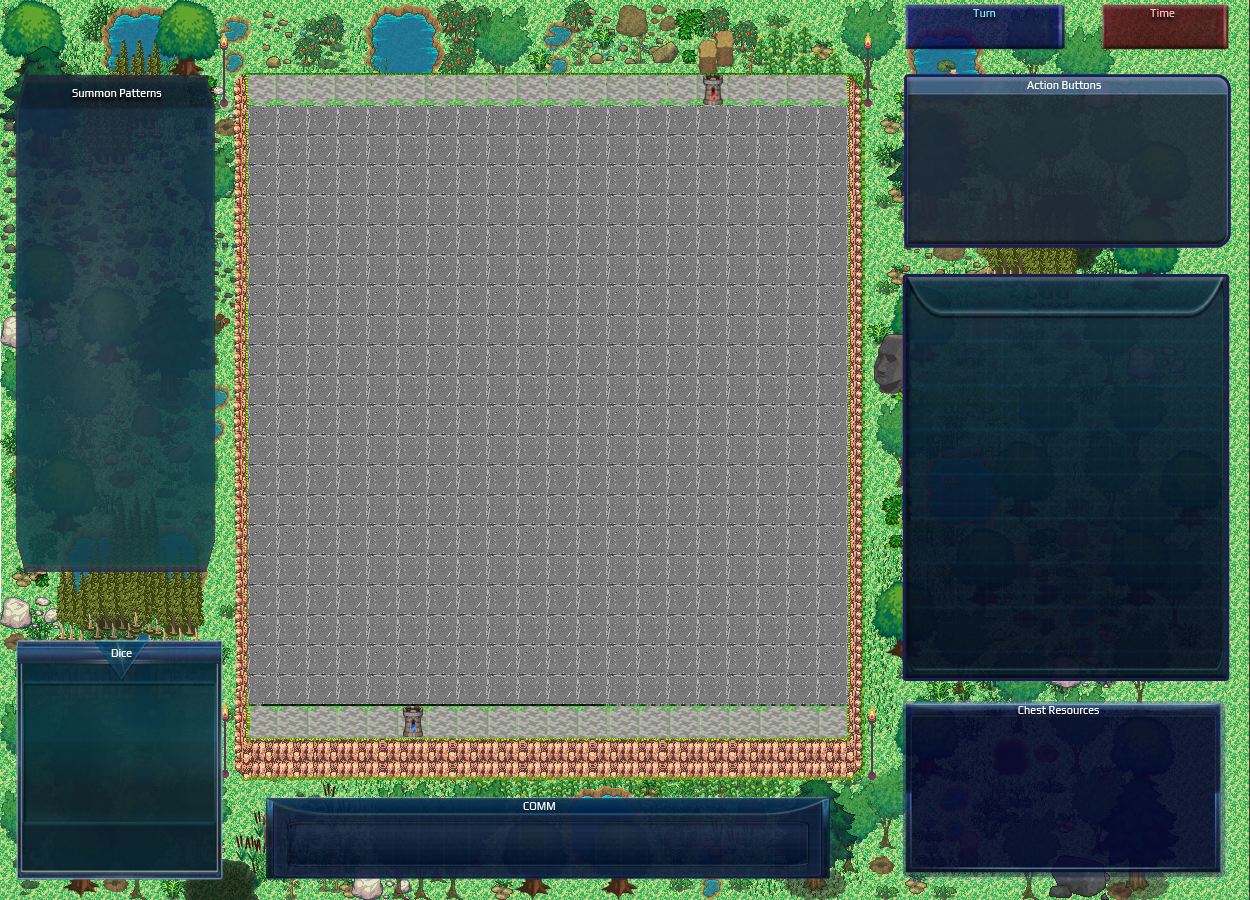
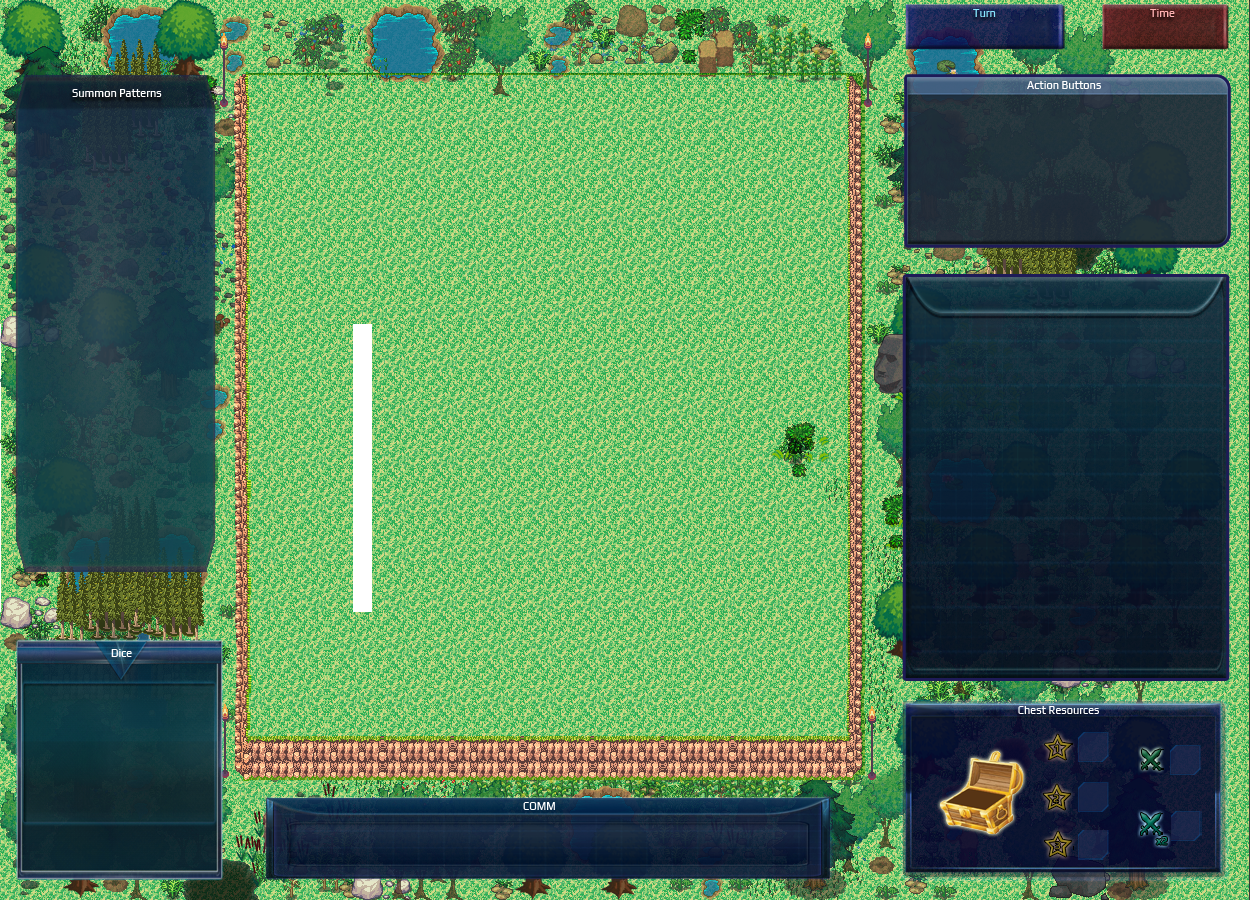
Commit 16 de abril. avances gráficas.

diff --git a/core/src/com/mygdx/game/ui/Screens/GameScreen.java b/core/src/com/mygdx/game/ui/Screens/GameScreen.java
@@ -1,12 +1,26 @@
 package com.mygdx.game.ui.Screens;
 
+import com.badlogic.gdx.Gdx;
+import com.badlogic.gdx.InputMultiplexer;
+import com.badlogic.gdx.InputProcessor;
 import com.badlogic.gdx.Screen;
 import com.badlogic.gdx.graphics.Camera;
+import com.badlogic.gdx.graphics.Color;
 import com.badlogic.gdx.graphics.OrthographicCamera;
 import com.badlogic.gdx.graphics.Texture;
+import com.badlogic.gdx.graphics.g2d.BitmapFont;
 import com.badlogic.gdx.graphics.g2d.SpriteBatch;
 import com.badlogic.gdx.graphics.g2d.TextureAtlas;
 import com.badlogic.gdx.graphics.g2d.TextureRegion;
+import com.badlogic.gdx.math.Vector3;
+import com.badlogic.gdx.scenes.scene2d.Actor;
+import com.badlogic.gdx.scenes.scene2d.InputEvent;
+import com.badlogic.gdx.scenes.scene2d.Stage;
+import com.badlogic.gdx.scenes.scene2d.ui.ImageButton;
+import com.badlogic.gdx.scenes.scene2d.ui.Label;
+import com.badlogic.gdx.scenes.scene2d.utils.ChangeListener;
+import com.badlogic.gdx.scenes.scene2d.utils.ClickListener;
+import com.badlogic.gdx.scenes.scene2d.utils.TextureRegionDrawable;
 import com.badlogic.gdx.utils.viewport.StretchViewport;
 import com.badlogic.gdx.utils.viewport.Viewport;
 import com.mygdx.game.bl.celdas.iPrototipo.Celda;
@@ -19,14 +33,15 @@ import com.mygdx.game.ui.MyGdxGame;
 import java.util.ArrayList;
 
 
-public class GameScreen implements Screen {
+public class GameScreen implements Screen, InputProcessor {
 
     //Conexión con el orquestador
     private MyGdxGame parent;
 
     //screen
-    private Camera camera;
-    private Viewport viewport;
+    private final Camera camera;
+    private final Viewport viewport;
+    private Vector3 temp;
 
     //Gestores
     private static ControllerCelda gestorCelda;
@@ -34,17 +49,19 @@ public class GameScreen implements Screen {
     private static ControllerDado gestorDado;
 
     //graphics
-    private SpriteBatch batch;
+    private final SpriteBatch batch;
+    private final Stage stage;
+    private InputMultiplexer multiplexer;
 
     //world parameters
-    private final int WORLD_WIDTH = 1600;
+    private final int WORLD_WIDTH = 1250;
     private final int WORLD_HEIGHT = 900;
 
     //background
     Texture background;
 
     //game objects
-    private ArrayList<Celda> tablero;
+    private final ArrayList<Celda> tablero;
     private Cofre cofre = new Cofre();
 
     //players
@@ -63,20 +80,36 @@ public class GameScreen implements Screen {
     public TextureRegion summonDie;
     public TextureRegion movementDie;
 
+    //buttons
+
+    ImageButton btnRoll;
+    ImageButton btnEndTurn;
+    ImageButton btnSummon;
+    ImageButton btnAtk;
+    ImageButton btnSpAtk;
+    ImageButton btnAddChest;
+
+    //Labels
+
+    Label lTimer;
 
     //Texture atlas
     public final TextureAtlas diceAtlas = new TextureAtlas("dice/dice.atlas");
-    public static final TextureAtlas cellAtlas = new TextureAtlas("cells/cells.atlas");
+    public final TextureAtlas cellAtlas = new TextureAtlas("cells/cells.atlas");
+    public final TextureAtlas buttonAtlas = new TextureAtlas("buttons/buttons.atlas");
 
     //variables
 
     private String turn;
-    private int gameTime;
+    private int gameTime = 60;
     private static int time = 0;
+    public int currentCell = 1;
+    public String currentPlayer = "blue";
 
 
     public GameScreen(MyGdxGame myGame) {
         parent = myGame;
+        temp = new Vector3();
         camera = new OrthographicCamera();
         viewport = new StretchViewport(WORLD_WIDTH, WORLD_HEIGHT, camera);
 
@@ -105,7 +138,91 @@ public class GameScreen implements Screen {
         movementDie = diceAtlas.findRegion("1");
 
 
+        //Inicializar labels
+
+        /*Label.LabelStyle labelStyle = new Label.LabelStyle();
+        BitmapFont myFont = new BitmapFont("R");
+        labelStyle.fontColor = Color.WHITE;
+        labelStyle.font = myFont;*/
+
+
+        /* __________________________________________________________________________________________*/
+        /* --------------                         Cronómetro                                 --------*/
+        /* ------------------------------------------------------------------------------------------*/
+        /*lTimer = new Label("60",);
+        lTimer.setSize(100, 30);
+        lTimer.setPosition(1104, 852);*/
+
+
         //Inicializar botones
+
+        /* __________________________________________________________________________________________*/
+        /* --------                         Botón de Roll Dados                              --------*/
+        /* ------------------------------------------------------------------------------------------*/
+        TextureRegionDrawable rollUpImage =  new TextureRegionDrawable(buttonAtlas.findRegion("rollButtonUp"));
+        TextureRegionDrawable rollDownImage =  new TextureRegionDrawable(buttonAtlas.findRegion("rollButtonDown"));
+        ImageButton.ImageButtonStyle styleRoll = new ImageButton.ImageButtonStyle();
+        styleRoll.up = rollUpImage;
+        styleRoll.down = rollDownImage;
+        btnRoll = new ImageButton(styleRoll);
+        btnRoll.setPosition(75,40);
+        btnRoll.addListener(new ClickListener() {
+            public void clicked(InputEvent event, float x, float y){
+                System.out.println("Accion ejecutada: Tirar Dados");
+            }
+        });
+
+        /* __________________________________________________________________________________________*/
+        /* -----------                         Botón de End Turn                             --------*/
+        /* ------------------------------------------------------------------------------------------*/
+        TextureRegionDrawable endTurnUp =  new TextureRegionDrawable(buttonAtlas.findRegion("endTurnUp"));
+        TextureRegionDrawable endTurnDown =  new TextureRegionDrawable(buttonAtlas.findRegion("endTurnDown"));
+        ImageButton.ImageButtonStyle styleEnd = new ImageButton.ImageButtonStyle();
+        styleEnd.up = endTurnUp;
+        styleEnd.down = endTurnDown;
+        btnEndTurn = new ImageButton(styleEnd);
+        btnEndTurn.setPosition(1083,690);
+        btnEndTurn.addListener(new ClickListener() {
+            public void clicked(InputEvent event, float x, float y){
+                System.out.println("Accion ejecutada: Final del turno."); // editar con el método correcto
+            }
+        });
+
+        /* __________________________________________________________________________________________*/
+        /* -----------                         Botón de Summon                               --------*/
+        /* ------------------------------------------------------------------------------------------*/
+        TextureRegionDrawable summonUp =  new TextureRegionDrawable(buttonAtlas.findRegion("summonUp"));
+        TextureRegionDrawable summonDown =  new TextureRegionDrawable(buttonAtlas.findRegion("summonDown"));
+        ImageButton.ImageButtonStyle styleSummon = new ImageButton.ImageButtonStyle();
+        styleSummon.up = summonUp;
+        styleSummon.down = summonDown;
+        btnSummon = new ImageButton(styleSummon);
+        btnSummon.setPosition(939,690);
+        btnSummon.addListener(new ClickListener() {
+            public void clicked(InputEvent event, float x, float y){
+                System.out.println("Accion ejecutada: Realizar convocacion."); // editar con el método correcto
+            }
+        });
+
+
+
+        /* __________________________________________________________________________________________*/
+        /* -----------                        Botón de Add Chest                             --------*/
+        /* ------------------------------------------------------------------------------------------*/
+        TextureRegionDrawable addUp =  new TextureRegionDrawable(buttonAtlas.findRegion("addUp"));
+        TextureRegionDrawable addDown =  new TextureRegionDrawable(buttonAtlas.findRegion("addDown"));
+        ImageButton.ImageButtonStyle styleAdd = new ImageButton.ImageButtonStyle();
+        styleAdd.up = addUp;
+        styleAdd.down = addDown;
+        btnAddChest = new ImageButton(styleAdd);
+        btnAddChest.setPosition(929,122);
+        btnAddChest.addListener(new ClickListener() {
+            public void clicked(InputEvent event, float x, float y){
+                System.out.println("Accion ejecutada: Se agregaron dados de turno a cofre."); // editar con el método correcto
+            }
+        });
+
+
 
 
         //Establecer objetos de juego
@@ -113,20 +230,27 @@ public class GameScreen implements Screen {
 
 
 
+
+        //setear la pantalla al input processor para responder a clicks
+
+        multiplexer = new InputMultiplexer();
         batch = new SpriteBatch();
+        stage = new Stage(viewport, batch);
 
-    }
+        multiplexer.addProcessor(this);
+        multiplexer.addProcessor(stage);
 
-    public void changeTurn(){
-        if(turn.equals("jugador")){
-            turn="cpu";
-        }else{
-            turn="jugador";
-        }
-    }
+        Gdx.input.setInputProcessor(multiplexer);
 
-    public void updateClock(int value){
-        gameTime=value; //actualiza variable local para dibujar el tiempo restante del turno
+        //add elements to stage
+
+        stage.addActor(btnRoll);
+        stage.addActor(btnEndTurn);
+        stage.addActor(btnAddChest);
+        stage.addActor(btnSummon);
+        /*stage.addActor(lTimer);*/
+
+
     }
 
 
@@ -142,16 +266,20 @@ public class GameScreen implements Screen {
             c.draw(batch);
         }
 
-        gestorDado.getCofreJugador().draw(batch);
 
-        //DibujarDados
+        //Dibujar Dados
         batch.draw(summonDie, 52,152);
         batch.draw(actionDie, 136,152);
         batch.draw(movementDie, 92,87);
 
+        //Dibujar
+
+
         gestorCelda.changeColor(50, turnPlayer);
 
         batch.end();
+        stage.act();
+        stage.draw();
 
     }
 
@@ -179,13 +307,80 @@ public class GameScreen implements Screen {
 
     @Override
     public void dispose() {
-
-
+        batch.dispose();
     }
 
     @Override
     public void show() {
 
+    }
+
+    @Override
+    public boolean keyDown(int i) {
+        return false;
+    }
+
+    @Override
+    public boolean keyUp(int i) {
+        return false;
+    }
+
+    @Override
+    public boolean keyTyped(char c) {
+        return false;
+    }
+
+    @Override
+    public boolean touchDown(int screenX, int screenY, int pointer, int button) {
+        temp.set(screenX, screenY, 0);
+        camera.unproject(temp);
+
+        for (Celda c : tablero) {
+            if (c.getBoundingBox().contains(temp.x,temp.y)) {
+                currentCell = c.getId();
+                System.out.println("Celda seleccionada : "+currentCell);
+            }
+        }
+
+
+        /*if (btnRoll.isPressed()) {
+            System.out.println("Botón de Roll presionado");
+        }*/
+
+        return false;
+    }
+
+    @Override
+    public boolean touchUp(int i, int i1, int i2, int i3) {
+        return false;
+    }
+
+    @Override
+    public boolean touchDragged(int i, int i1, int i2) {
+        return false;
+    }
+
+    @Override
+    public boolean mouseMoved(int i, int i1) {
+        return false;
+    }
+
+    @Override
+    public boolean scrolled(float v, float v1) {
+        return false;
+    }
+
+    public void changeTurn(){
+        if(currentPlayer.equals("blue")){
+            currentPlayer="red";
+        }
+        if(currentPlayer.equals("red")){
+            currentPlayer="blue";
+        }
+    }
+
+    public void updateClock(int value){
+        gameTime=value; //actualiza variable local para dibujar el tiempo restante del turno
     }
 }
 

diff --git a/core/src/com/mygdx/game/tl/ControllerCelda.java b/core/src/com/mygdx/game/tl/ControllerCelda.java
@@ -12,7 +12,7 @@ import com.mygdx.game.bl.celdas.iPrototipo.Celda;
 import java.util.ArrayList;
 
 public class ControllerCelda {
-    private final ArrayList<Celda> arrCeldas = new ArrayList<>();
+    private ArrayList<Celda> arrCeldas = new ArrayList<>();
     private int idCeldaTablero;
     private int idCeldaCastillo;
     private final int idInicialTablero;

diff --git a/desktop/src/com/mygdx/game/desktop/DesktopLauncher.java b/desktop/src/com/mygdx/game/desktop/DesktopLauncher.java
@@ -8,7 +8,7 @@ public class DesktopLauncher {
 	public static void main (String[] arg) {
 		LwjglApplicationConfiguration config = new LwjglApplicationConfiguration();
 		config.height = 900;
-		config.width = 1600;
+		config.width = 1250;
 		new LwjglApplication(new MyGdxGame(), config);
 	}
 }

diff --git a/core/src/com/mygdx/game/bl/personajes/PproductoConcreto/Artilleria.java b/core/src/com/mygdx/game/bl/personajes/PproductoConcreto/Artilleria.java
@@ -1,6 +1,8 @@
 package com.mygdx.game.bl.personajes.PproductoConcreto;
 
 
+import com.badlogic.gdx.graphics.g2d.TextureAtlas;
+import com.badlogic.gdx.graphics.g2d.TextureRegion;
 import com.badlogic.gdx.math.Rectangle;
 import com.mygdx.game.bl.personajes.componente.Personaje;
 

diff --git a/core/src/com/mygdx/game/bl/celdas/iPrototipo/Celda.java b/core/src/com/mygdx/game/bl/celdas/iPrototipo/Celda.java
@@ -93,4 +93,5 @@ public abstract class Celda {
         batch.draw(cellColor.getColoredCell(), boundingBox.x, boundingBox.y, boundingBox.width, boundingBox.height);
     }
 
+
 }

diff --git a/core/src/com/mygdx/game/bl/prefas/Pattern.java b/core/src/com/mygdx/game/bl/prefas/Pattern.java
@@ -1,0 +1,4 @@
+package com.mygdx.game.bl.prefas;
+
+public class Pattern {
+}
